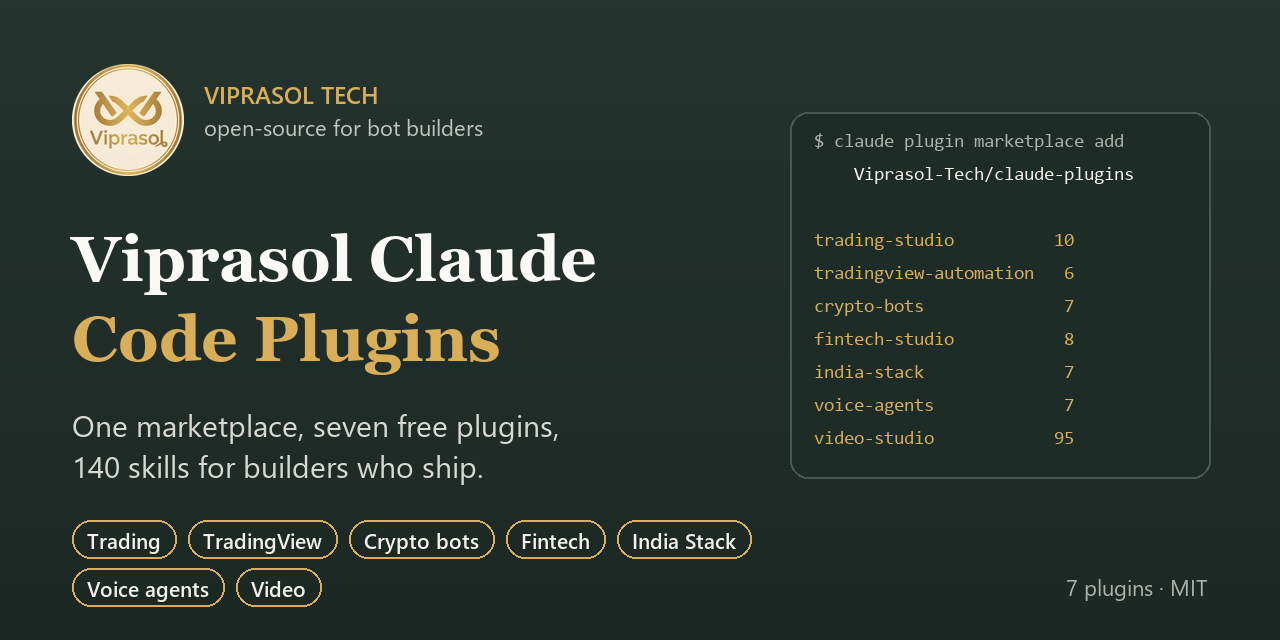
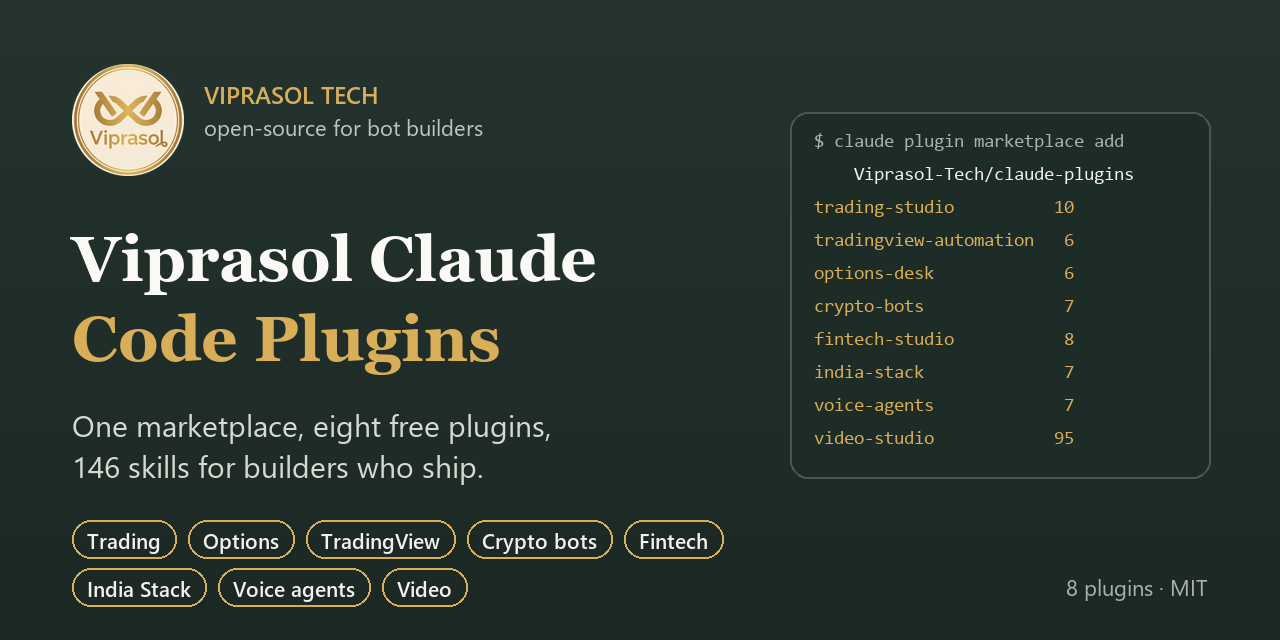
feat: add options-desk to the marketplace

diff --git a/README.md b/README.md
@@ -1,15 +1,15 @@
 <div align="center">
 
-<img src=".github/social-preview.png" alt="Viprasol Claude Code plugins: one marketplace, seven free plugins, 140 skills for trading, fintech, India Stack, voice agents and video." width="100%">
+<img src=".github/social-preview.png" alt="Viprasol Claude Code plugins: one marketplace, eight free plugins, 146 skills for trading, fintech, India Stack, voice agents and video." width="100%">
 
 ### Every free Claude Code plugin from Viprasol, in one marketplace
 
-**Trading · TradingView automation · crypto bots · fintech · India Stack · voice agents · video editing**<br>
+**Trading · options · TradingView automation · crypto bots · fintech · India Stack · voice agents · video editing**<br>
 Add the marketplace once, then install only the plugins you need.
 
 [![License: MIT](https://img.shields.io/badge/license-MIT-25342f?style=for-the-badge)](LICENSE)
 [![Claude Code](https://img.shields.io/badge/Claude_Code-marketplace-d97757?style=for-the-badge)](https://code.claude.com/docs/en/plugins/create-marketplace)
-[![Plugins](https://img.shields.io/badge/plugins-7-765820?style=for-the-badge)](#-plugins)
+[![Plugins](https://img.shields.io/badge/plugins-8-765820?style=for-the-badge)](#-plugins)
 [![CI](https://img.shields.io/github/actions/workflow/status/Viprasol-Tech/claude-plugins/ci.yml?branch=main&style=for-the-badge&label=links)](https://github.com/Viprasol-Tech/claude-plugins/actions/workflows/ci.yml)
 
 </div>
@@ -27,6 +27,7 @@ Then pick what you need:
 ```bash
 claude plugin install trading-studio@viprasol
 claude plugin install tradingview-automation@viprasol
+claude plugin install options-desk@viprasol
 claude plugin install crypto-bots@viprasol
 claude plugin install fintech-studio@viprasol
 claude plugin install india-stack@viprasol
@@ -44,6 +45,7 @@ Skills load automatically when your request matches, or call one directly as
 | --- | ---: | --- | --- |
 | 📈 **`trading-studio`** | 10 | Pine Script v6, MQL5 Expert Advisors, backtest audits with Deflated Sharpe, position sizing, bot security, trade journals, Kalshi / Polymarket | [claude-trading-skills](https://github.com/Viprasol-Tech/claude-trading-skills) |
 | 🔔 **`tradingview-automation`** | 6 | TradingView alerts and webhooks, signal-to-order workers, Zerodha / Angel One / Dhan / Upstox under SEBI's 2026 algo rules, MT5 and crypto bridges, TradingView charts | [claude-tradingview-automation-skills](https://github.com/Viprasol-Tech/claude-tradingview-automation-skills) |
+| 🧮 **`options-desk`** | 6 | Option pricing, Greeks and IV, exact multi-leg payoffs, chain data, spread orders on IBKR / Alpaca / Tradier / Kite, NSE & SEBI F&O rules, options backtests | [claude-options-trading-skills](https://github.com/Viprasol-Tech/claude-options-trading-skills) |
 | 🪙 **`crypto-bots`** | 7 | Binance / Bybit / OKX signing, tick and lot filters, rate limits, order book sync, order lifecycle, perps liquidation maths, Hyperliquid and Solana | [claude-crypto-bot-skills](https://github.com/Viprasol-Tech/claude-crypto-bot-skills) |
 | 💳 **`fintech-studio`** | 8 | Money maths, double-entry ledgers, Stripe / Razorpay / PayPal / Adyen, webhook security, subscriptions, reconciliation, PCI DSS, KYC/AML | [claude-fintech-skills](https://github.com/Viprasol-Tech/claude-fintech-skills) |
 | 🇮🇳 **`india-stack`** | 7 | UPI, GST invoicing, GSTIN / PAN / Aadhaar validation, Aadhaar eKYC, Account Aggregator, RBI payment rules, DPDP | [claude-india-stack-skills](https://github.com/Viprasol-Tech/claude-india-stack-skills) |

diff --git a/CHANGELOG.md b/CHANGELOG.md
@@ -1,5 +1,10 @@
 # Changelog
 
+## [1.1.0] - 2026-11-24
+
+### Added
+- `options-desk` (claude-options-trading-skills): 6 options engineering skills.
+
 ## [1.0.0] - 2026-11-24
 
 ### Added
